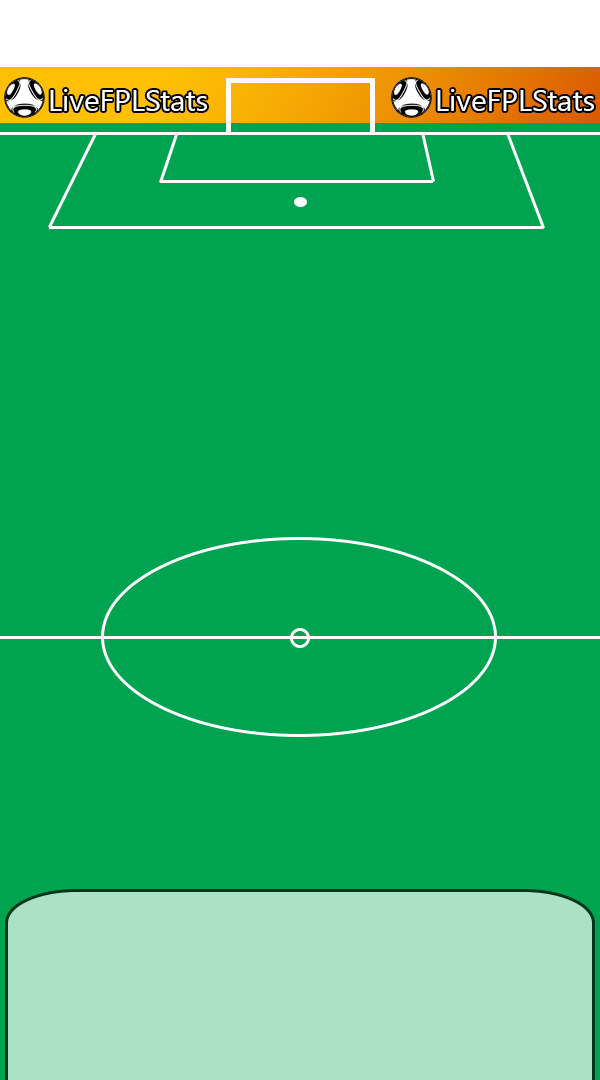
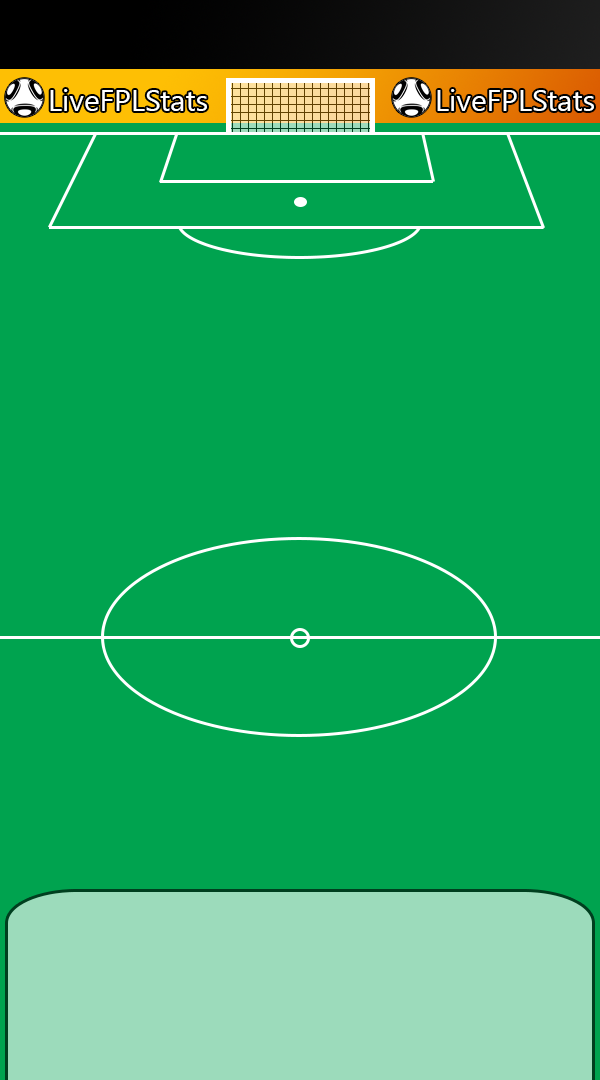
changed pitch graphic design and team title and points font colour added goalkeeper jersey for Arsenal, further goalkeeper jerseys to be added in future

Changed region(s): [[0.0, 0.0, 1.0, 0.1222], [0.51, 0.2139, 0.69, 0.2444], [0.3, 0.2139, 0.48, 0.2444]]

diff --git a/bot/image_generator.py b/bot/image_generator.py
@@ -47,11 +47,11 @@ def get_jersey_filename(team_name: str, is_goalkeeper: bool = False) -> str:
     # Replace spaces with hyphens
     base_name = mapped_name.replace(" ", "-")
 
-    # Future: support goalkeeper jerseys
-    # if is_goalkeeper:
-    #     gk_path = f"{base_name}_gk.png"
-    #     if os.path.exists(os.path.join(JERSEYS_DIR, gk_path)):
-    #         return gk_path
+    # Support goalkeeper jerseys (fall back to outfield if not found)
+    if is_goalkeeper:
+        gk_path = f"{base_name}-GK.png"
+        if os.path.exists(os.path.join(JERSEYS_DIR, gk_path)):
+            return gk_path
 
     return f"{base_name}.png"
 
@@ -153,7 +153,11 @@ def generate_team_image(fpl_data, summary_data, is_finished=False):
 
         try:
             asset_img = Image.open(jersey_path).convert("RGBA")
-            asset_img = asset_img.resize(JERSEY_SIZE, Image.LANCZOS)
+            # Resize to target height, maintain aspect ratio (GK jerseys are wider)
+            target_height = JERSEY_SIZE[1]
+            scale = target_height / asset_img.height
+            new_width = int(asset_img.width * scale)
+            asset_img = asset_img.resize((new_width, target_height), Image.LANCZOS)
         except FileNotFoundError:
             print(f"Jersey not found: {jersey_path}")
             continue
@@ -201,7 +205,7 @@ def generate_team_image(fpl_data, summary_data, is_finished=False):
     # Team Name
     team_name_text = summary_data.get('team_name', 'My Team')
     team_font = ImageFont.truetype(FONT_PATH, 28)
-    draw.text((left_margin - 10, header_y - 6), team_name_text, font=team_font, fill="black")
+    draw.text((left_margin - 10, header_y - 6), team_name_text, font=team_font, fill="white")
 
     # Calculate offset for points info (beside team name)
     team_bbox = draw.textbbox((0, 0), team_name_text, font=team_font)
@@ -210,11 +214,11 @@ def generate_team_image(fpl_data, summary_data, is_finished=False):
 
     # GW Points
     gw_text = f"GW{fpl_data['live'].get('gw', '')} PTS: {summary_data['gw_points']}"
-    draw.text((points_x, header_y - 14), gw_text, font=summary_font, fill="black")
+    draw.text((points_x, header_y - 14), gw_text, font=summary_font, fill="white")
 
     # Total Points (below GW points)
     total_text = f"Total PTS: {summary_data['total_points']}"
-    draw.text((points_x, header_y + 12), total_text, font=summary_font, fill="black")
+    draw.text((points_x, header_y + 12), total_text, font=summary_font, fill="white")
 
     img_byte_arr = io.BytesIO()
     background.convert("RGB").save(img_byte_arr, format='PNG')
@@ -266,7 +270,11 @@ def generate_dreamteam_image(fpl_data, summary_data):
 
         try:
             asset_img = Image.open(jersey_path).convert("RGBA")
-            asset_img = asset_img.resize(JERSEY_SIZE, Image.LANCZOS)
+            # Resize to target height, maintain aspect ratio (GK jerseys are wider)
+            target_height = JERSEY_SIZE[1]
+            scale = target_height / asset_img.height
+            new_width = int(asset_img.width * scale)
+            asset_img = asset_img.resize((new_width, target_height), Image.LANCZOS)
         except FileNotFoundError:
             print(f"Jersey not found: {jersey_path}")
             continue
